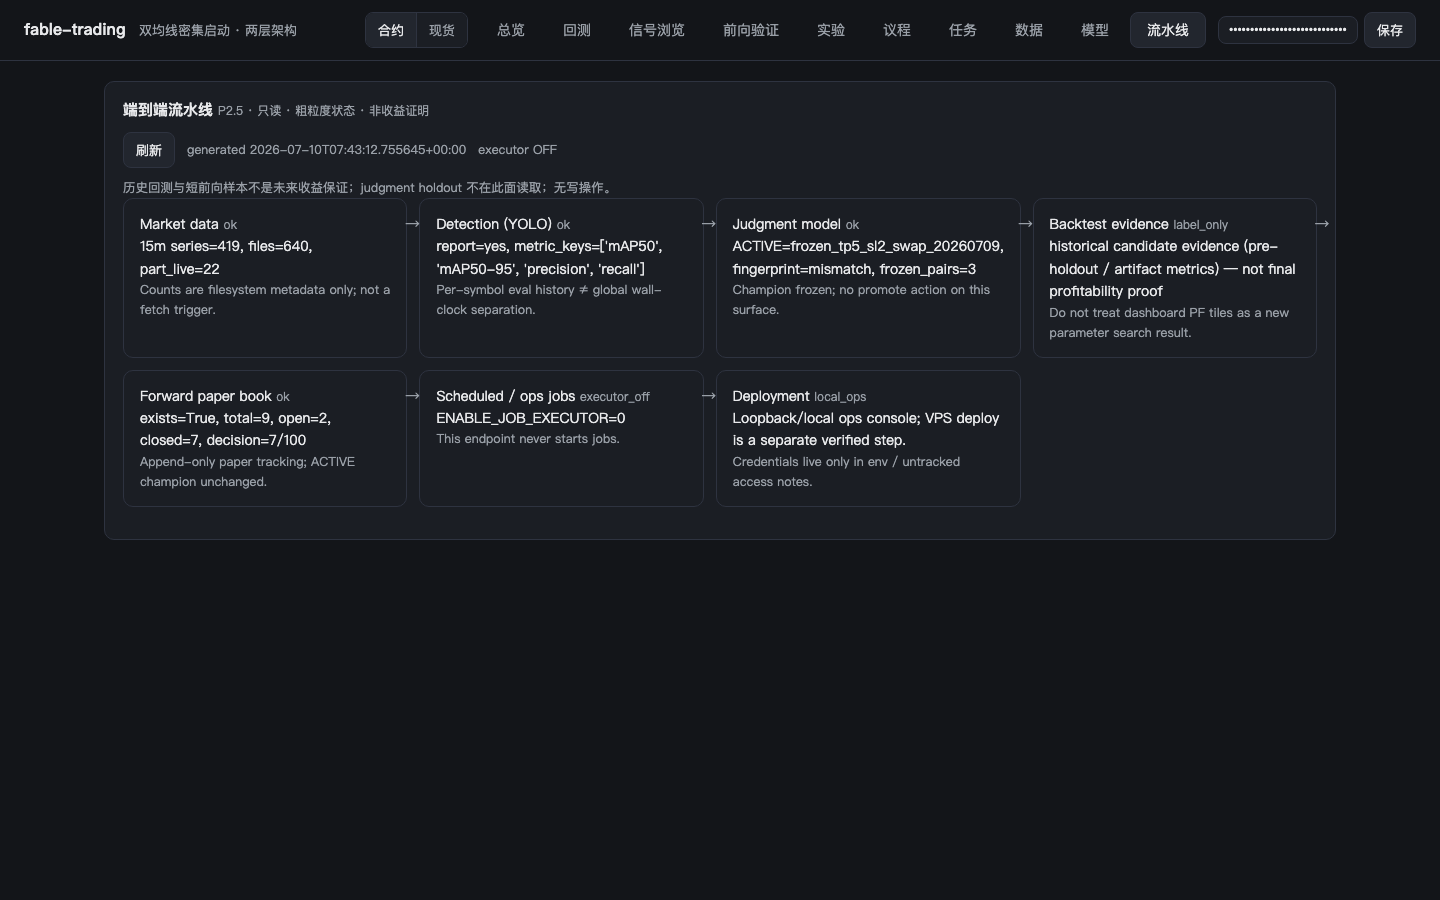
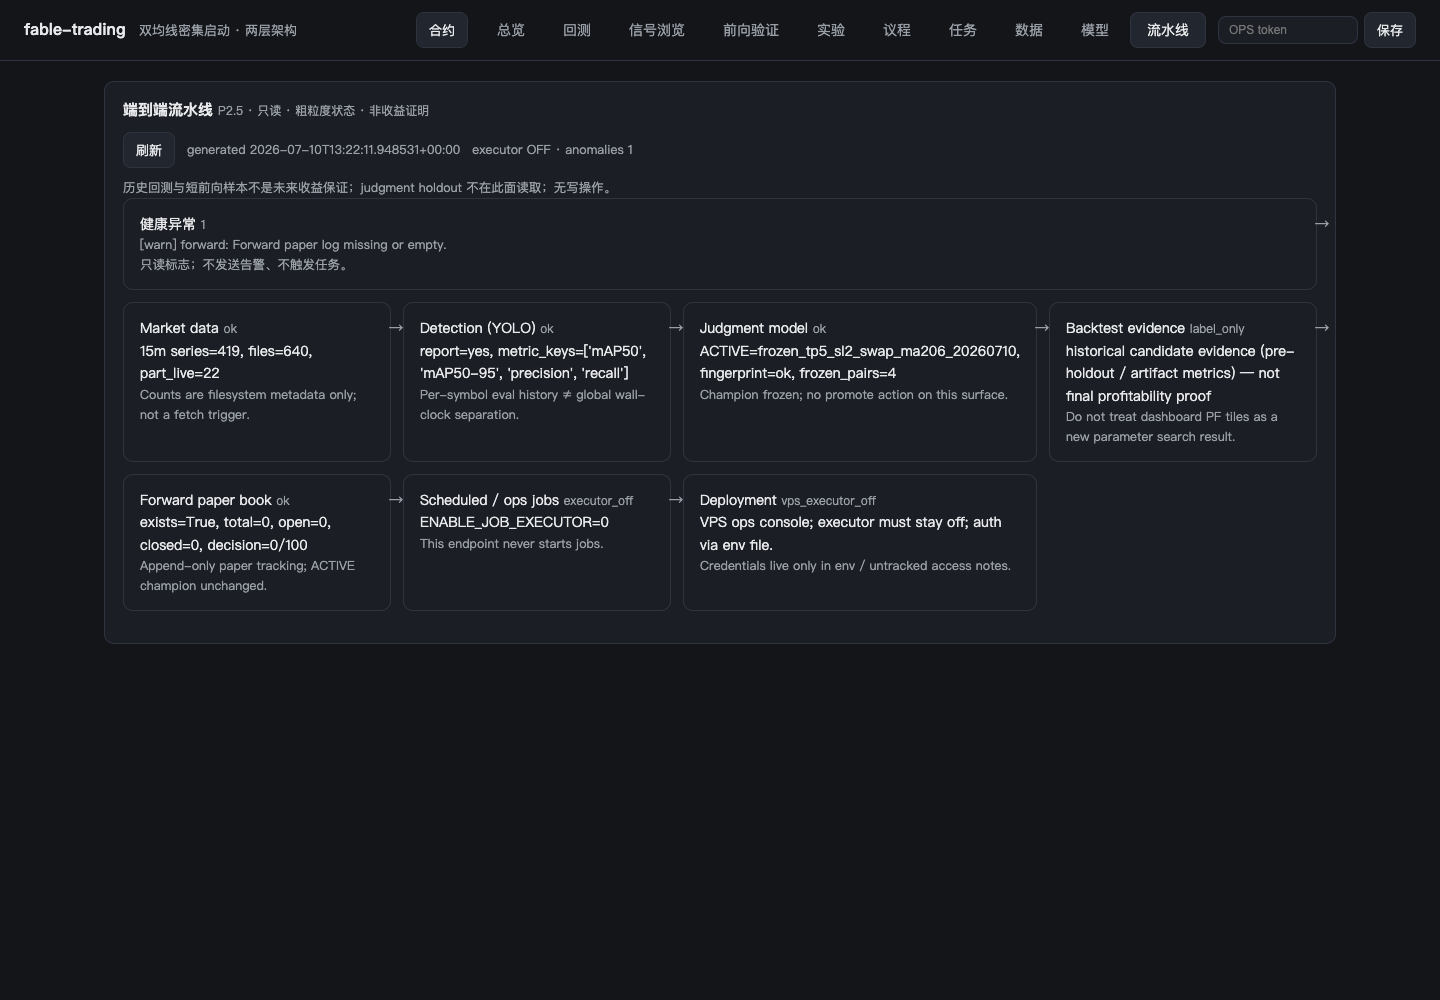
Complete current MA206 VPS acceptance

Changed region(s): [[0.0, 0.0, 0.9688, 0.5911], [0.4688, 0.4356, 0.6875, 0.5911]]

diff --git a/src/webapp/static/app.js b/src/webapp/static/app.js
@@ -1210,7 +1210,7 @@ async function loadPipelineStatus() {
   }
   if (host) host.innerHTML = "<div class='note'>加载中…</div>";
   try {
-    const d = await opsFetch("/api/ops/pipeline");
+    const d = await (await fetch("/api/pipeline")).json();
     if (gen) gen.textContent = d.generated_at ? `generated ${d.generated_at}` : "";
     if (badge) {
       const nAnom = Array.isArray(d.anomalies) ? d.anomalies.length : (d.anomaly_count || 0);

diff --git a/src/webapp/static/index.html b/src/webapp/static/index.html
@@ -437,6 +437,6 @@
     </div>
   </section>
 </main>
-<script src="app.js?v=11"></script>
+<script src="app.js?v=12"></script>
 </body>
 </html>

diff --git a/tests/test_ops_pipeline_status.py b/tests/test_ops_pipeline_status.py
@@ -8,7 +8,7 @@ from fastapi import HTTPException
 
 from src.webapp import pipeline_status
 from src.webapp.auth import verify_ops_request
-from src.webapp.server import ops_pipeline
+from src.webapp.server import ops_pipeline, public_pipeline
 
 
 def _req(headers: dict | None = None):
@@ -67,6 +67,20 @@ def test_ops_pipeline_requires_token(monkeypatch: pytest.MonkeyPatch) -> None:
     out = ops_pipeline(_req({"Authorization": "Bearer pipe-test-token"}))
     assert out["read_only"] is True
     assert "stages" in out
+
+
+def test_public_pipeline_stays_read_only_when_ops_require_token(
+    monkeypatch: pytest.MonkeyPatch,
+) -> None:
+    monkeypatch.setenv("OPS_AUTH_MODE", "token")
+    monkeypatch.setenv("OPS_API_TOKEN", "pipe-test-token")
+
+    out = public_pipeline()
+
+    assert out["read_only"] is True
+    assert out["write_actions"] == []
+    assert out["executor_enabled"] is False
+    assert pipeline_status.assert_pipeline_payload_safe(out) == []
 
 
 def test_deploy_stage_role_local_by_default(monkeypatch: pytest.MonkeyPatch) -> None:

diff --git a/src/webapp/server.py b/src/webapp/server.py
@@ -94,6 +94,12 @@ def forward(cost: float = FORWARD_COST) -> dict:
     return forward_payload(cost)
 
 
[email redacted]("/api/pipeline")
+def public_pipeline() -> dict:
+    """Public coarse pipeline snapshot; redacted and strictly read-only."""
+    return pipeline_status_payload()
+
+
 # ---------- P2.5 Phase 0+1: ops (read-only) ----------
 
 

diff --git a/.omo/evidence/task-6-vps-current-ma206-acceptance.md b/.omo/evidence/task-6-vps-current-ma206-acceptance.md
@@ -1,0 +1,61 @@
+# Todo 6 — VPS current-MA206 final acceptance
+
+**Result:** PASS
+
+**Date:** 2026-07-10
+
+**Public dashboard:** `http://103.214.174.58:8642/`
+
+## Acceptance matrix
+
+| Criterion | Live result |
+|---|---|
+| Coarse redacted public status | PASS `GET /api/pipeline` → 200 without token |
+| Authenticated controls | PASS `/api/ops/pipeline` anonymous 401, authenticated 200 |
+| Write controls disabled | PASS authenticated `POST /api/ops/jobs` → 403 |
+| Every pipeline stage | PASS 7/7: data, YOLO, judgment, backtest, forward, jobs, deploy |
+| Current MA206 mainline | PASS `ACTIVE=frozen_tp5_sl2_swap_ma206_20260710`, fingerprint ok |
+| Forward caveat | PASS 0/100 shown with explicit non-promotion caveat |
+| YOLO gate | PASS report and coarse metric keys shown; explicitly diagnostic only |
+| VPS executor | PASS systemd and payload both `ENABLE_JOB_EXECUTOR=0` |
+| No local path / secret leak | PASS JSON scan: no absolute host path or secret-value field |
+| Desktop browser | PASS 1440x1000, root overflow 0, console 0/0 |
+| Mobile browser | PASS 390x844, root overflow 0, no token entered, console 0/0 |
+| Label Studio coexistence | PASS service active; nginx public 8081, backend loopback 8082 |
+
+## Public payload snapshot
+
+```text
+data             ok                15m series=419, files=640, part_live=22
+detection_yolo   ok                report=yes; mAP50/mAP50-95/precision/recall keys
+judgment         ok                ACTIVE=frozen_tp5_sl2_swap_ma206_20260710; fingerprint=ok
+backtest         label_only        pre-holdout/artifact evidence; not final profitability proof
+forward          ok                total=0, open=0, closed=0, decision=0/100
+jobs             executor_off      ENABLE_JOB_EXECUTOR=0
+deploy           vps_executor_off  public VPS; auth from root-only env
+```
+
+The single live anomaly is `forward_log_missing`: the MA206 forward file exists but has zero rows. This is a truthful low-sample warning, not a deployment failure.
+
+## Reproduction shape
+
+```bash
+bash scripts/deploy_vps.sh
+curl http://103.214.174.58:8642/api/pipeline
+curl http://103.214.174.58:8642/api/ops/pipeline  # 401 without token
+```
+
+Authenticated checks source the root-only VPS env in the remote shell and print status codes only; token values are never printed or stored in evidence.
+
+## Browser evidence
+
+- `.omo/evidence/task-6-vps-screens/desktop_pipeline.png`
+- `.omo/evidence/task-6-vps-screens/mobile390_pipeline.png`
+- `.omo/evidence/task-6-vps-browser.json`
+
+## Risk and honesty
+
+- Public status is read-only coarse metadata, not a control surface and not a profitability claim.
+- Historical backtest evidence is explicitly labeled pre-holdout/artifact evidence.
+- Forward is 0/100, so the system has no live forward-return evidence yet.
+- No holdout read, threshold/cost/TP/SL change, live order, model promotion, or VPS executor action occurred.

diff --git a/analysis/p25_vps_acceptance_20260710.md b/analysis/p25_vps_acceptance_20260710.md
@@ -1,0 +1,41 @@
+# P2.5 VPS 公网验收（2026-07-10）
+
+## 结论
+
+当前 MA206 项目流水线已部署到 `http://103.214.174.58:8642/` 并通过公网验收。匿名用户可查看脱敏只读七阶段状态；实验、模型、任务等 `/api/ops/*` 控制面仍要求 token；VPS 任务执行器保持关闭。
+
+## 实机结果
+
+| 检查 | 结果 |
+|---|---|
+| `GET /api/pipeline` 无 token | 200 |
+| `GET /api/ops/pipeline` 无 token | 401 |
+| `GET /api/ops/pipeline` 有效 token | 200 |
+| `POST /api/ops/jobs` 有效 token | 403，executor 关闭 |
+| systemd | active + enabled |
+| `ENABLE_JOB_EXECUTOR` | 0 |
+| ACTIVE | `frozen_tp5_sl2_swap_ma206_20260710` |
+| fingerprint | ok |
+| 浏览器 | 1440x1000 与 390x844 均通过，0 error / 0 warning |
+| 脱敏扫描 | 无绝对本机路径、无 secret value |
+
+公开页面同时显示数据规模、YOLO 诊断证据、MA206 judgment ACTIVE、历史回测边界、前向样本、任务执行器与部署角色。回测明确标为非最终收益证明，forward 明确为 `0/100`。
+
+## 验证命令
+
+```bash
+bash scripts/deploy_vps.sh
+curl -sS http://103.214.174.58:8642/api/pipeline
+curl -sS -o /dev/null -w '%{http_code}\n' \
+  http://103.214.174.58:8642/api/ops/pipeline
+python3 -m pytest tests/test_ops_pipeline_status.py tests/test_ops_phase01.py -q
+```
+
+相关专项测试 `20 passed`。完整证据与截图见 `.omo/evidence/task-6-vps-current-ma206-acceptance.md`。
+
+## 风险与诚实声明
+
+- 公开的是粗粒度只读元数据，不是交易执行器。
+- forward 当前 0/100，尚无前向收益证据；页面上的唯一 warning 正是空 forward 样本。
+- YOLO 当前阶段只显示已有诊断报告；E2.1b 正式结论仍必须等待训练自然结束后评估。
+- 本轮未读取 holdout，未改阈值、成本、TP/SL、ACTIVE，未启动实盘。

diff --git a/.omo/runtime/NEXT_TASK.md b/.omo/runtime/NEXT_TASK.md
@@ -11,13 +11,12 @@ model: deep
 
 ## Preferred next atom (non-owner-gated)
 
-### Option 0 — Close Todo 6 VPS pipeline acceptance
+### Completed — Todo 6 VPS pipeline acceptance
 
-Treat existing API/UI/screenshots as partial implementation, not completion. Re-run the original
-Todo 6 criteria against the current MA206 deployment: coarse redacted public status, authenticated
-controls, every pipeline stage, forward caveat, YOLO gate, executor off, no local paths/secrets,
-and real desktop plus 390px browser QA. Fix reproduced gaps, then write fresh evidence before
-checking Todo 6.
+Closed on current MA206 deployment: public redacted `/api/pipeline`, authenticated controls,
+all seven stages, forward caveat, YOLO diagnostic gate, executor off, no local paths/secrets,
+and real desktop plus 390px browser QA. Evidence:
+`.omo/evidence/task-6-vps-current-ma206-acceptance.md`.
 
 ### Option A — Todo 7 E2.1b formal report (only if training exited)
 

diff --git a/.omo/runtime/GROK_2DAY_STATUS.md b/.omo/runtime/GROK_2DAY_STATUS.md
@@ -6,10 +6,10 @@
 - grok_worker: stopped_by_owner_request_2026-07-10T16:20+08:00
 - scheduler: stopped
 - codex_heartbeat: e2-1b active every 4 hours; Codex-only execution
-- current_todo: Todo 6 acceptance remains open; E2.1b is still observe-only
+- current_todo: Todo 6 accepted on current MA206 VPS; E2.1b is still observe-only
 - last_slot: 2026-07-10T16:18 three-iter-digest-h1-e21bobserve
 - last_result: owner-directed SMA/EMA20/60/120 migration active; new freeze and forward books verified at 0/100
-- next_action: close Todo 6 against its original VPS acceptance criteria while observing E2.1b; Todo 7 starts only after natural exit, then Todo 8
+- next_action: if E2.1b has exited, close Todo 7 formal report; otherwise continue non-owner-gated daily-workflow verification, then Todo 8 SAHI only after Todo 7
 - final_complete: false
 
 ## Guardrails
@@ -30,12 +30,11 @@
 3. E2.1b observe snapshot (not exited) — `.omo/evidence/task-7-e21b-observe-snapshot.md`
 4. Full multi-book shadow matrix ×2 idempotent — `.omo/evidence/task-shadow-matrix-idempotency.md`
 5. ACTIVE fingerprint mismatch root cause confirmed — `.omo/evidence/task-fingerprint-mismatch-diagnostic.md`
+6. Todo 6 current-MA206 VPS acceptance — `.omo/evidence/task-6-vps-current-ma206-acceptance.md`; public redacted pipeline 200, ops auth retained, executor 0, desktop/mobile passed
 
 ## Implemented but not accepted as complete
 
-- Todo 6 has pipeline API/UI, anomaly/auth code, and older browser evidence, but the original
-  public-redacted/current-MA206 desktop+mobile acceptance has not been closed. Do not mark it done.
-- Todo 9 mainline workflow/idempotency evidence exists independently of Todo 6 completion.
+- Todo 9 mainline workflow/idempotency evidence exists independently of Todo 7/8 completion.
 
 ## Blocked Or Deferred
 

diff --git a/docs/learnings/split-public-status-from-authenticated-control.md b/docs/learnings/split-public-status-from-authenticated-control.md
@@ -1,0 +1,7 @@
+# 公网状态面与鉴权控制面必须分路由
+
+- **问题**：VPS 看板可公网打开，但流水线复用了 `/api/ops/pipeline`，手机没有 token 时只能看到 401，导致“公开脱敏状态”与“鉴权控制面”两个目标互相冲突。
+- **死胡同**：仅证明带 token 的 ops 接口可用，不能满足手机直接查看；反过来取消整个 `/api/ops/*` 鉴权又会扩大实验、模型和任务接口的暴露面。
+- **有效路径**：新增只返回同一脱敏、只读 payload 的 `/api/pipeline`，保留 `/api/ops/pipeline` 鉴权，并继续让所有 POST 在 VPS executor 关闭时拒绝。
+- **通用规则**：公网运维界面先把观察能力与控制能力拆成不同路由，再分别验证匿名 200、控制面 401、带鉴权写入 403 三个边界。
+- **牵连**：`src/webapp/server.py`、`src/webapp/static/app.js`、`tests/test_ops_pipeline_status.py`、VPS `fable-dashboard.service`。